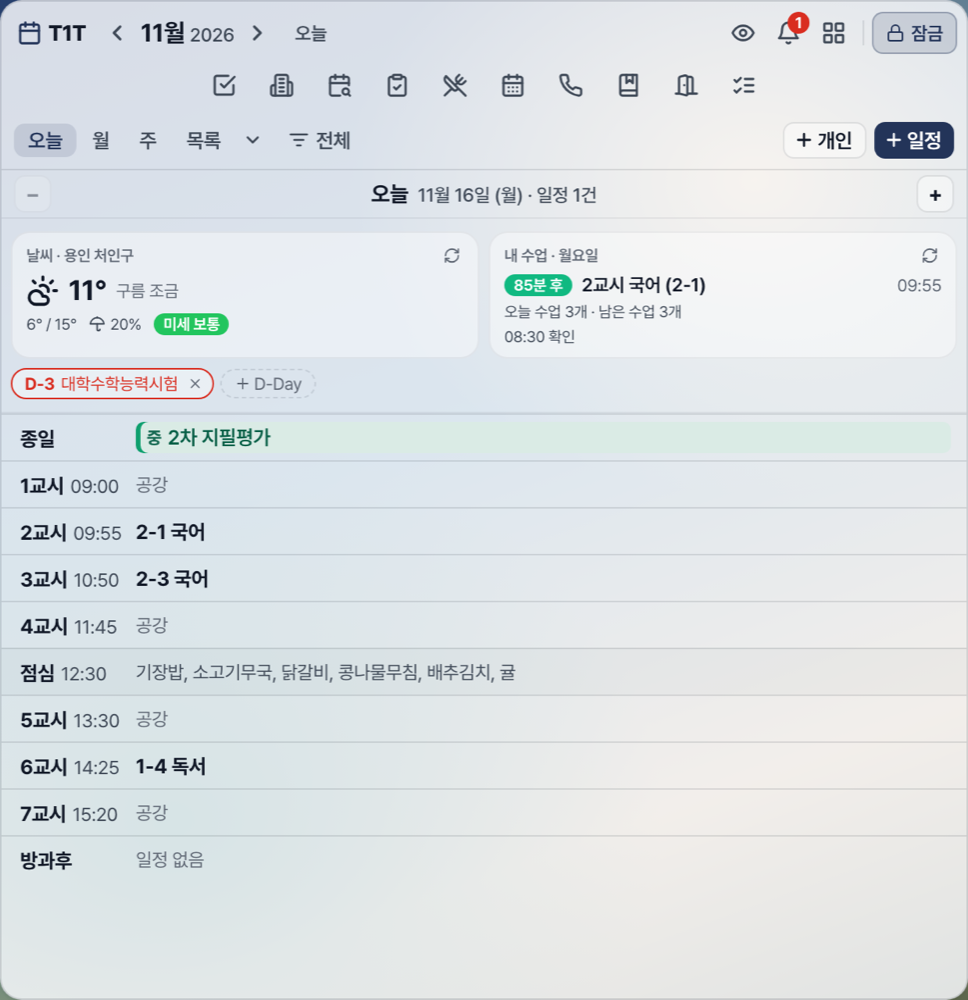
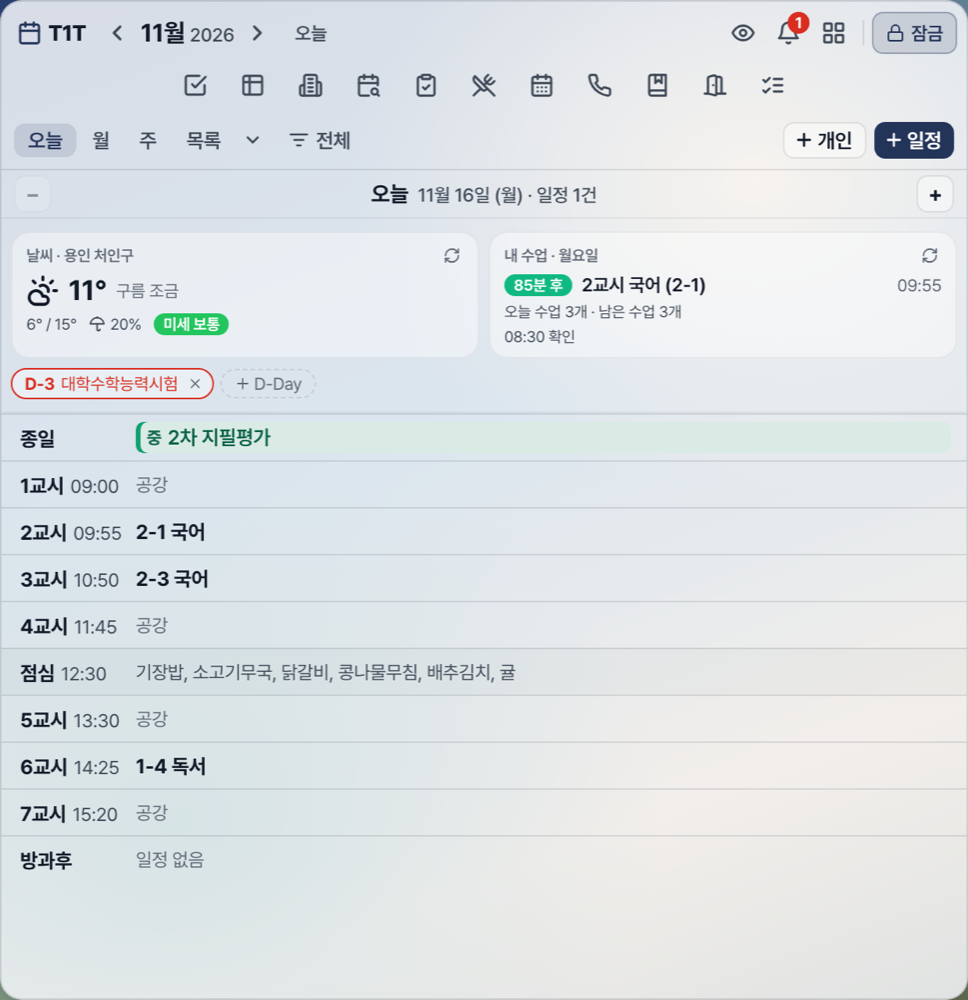
docs: 안내서와 README에 내 시간표 한 주 보기 반영
- 안내서 10장에 한 주 시간표 보기와 화면 사진, 주 보기 설명, 도구 목록에 내 시간표
- 한 장 안내의 도구 11가지
- 도구 줄에 아이콘이 하나 늘어 화면 사진 6장과 한 장 안내 번호 사진을 다시 찍음

Changed region(s): [[0.186, 0.062, 0.8058, 0.093]]

diff --git a/docs/T1T-교사_사용안내서.html b/docs/T1T-교사_사용안내서.html
@@ -333,9 +333,10 @@
 </table>
 
 <h3>제목 줄과 도구 모음</h3>
-<p>제목 줄에는 날짜 이동, 개인 일정 가리기(눈 아이콘), 알림(종 아이콘), 도구 모음(격자 아이콘)이 있습니다. 그 아래 가운데 아이콘 줄에 할 일, 회의실, 회의 찾기, 시험감독, 급식, 학사일정, 키폰, 도서관, 외출시스템, 외출상황이 늘 보입니다. 아이콘에 마우스를 가까이 대면 커지면서 위쪽에 이름이 나오고 색이 바뀝니다. 창이 넓으면 제목 줄에 검색과 설정도 함께 보입니다.</p>
+<p>제목 줄에는 날짜 이동, 개인 일정 가리기(눈 아이콘), 알림(종 아이콘), 도구 모음(격자 아이콘)이 있습니다. 그 아래 가운데 아이콘 줄에 할 일, 내 시간표, 회의실, 회의 찾기, 시험감독, 급식, 학사일정, 키폰, 도서관, 외출시스템, 외출상황이 늘 보입니다. 아이콘에 마우스를 가까이 대면 커지면서 위쪽에 이름이 나오고 색이 바뀝니다. 창이 넓으면 제목 줄에 검색과 설정도 함께 보입니다.</p>
 <div class="toolbar">
   <div class="ic-card"><div class="nm">할 일</div><div class="ds">내 작업 관리</div></div>
+  <div class="ic-card"><div class="nm">내 시간표</div><div class="ds">내 수업을 한 주 표로</div></div>
   <div class="ic-card"><div class="nm">회의실</div><div class="ds">회의실 예약</div></div>
   <div class="ic-card"><div class="nm">회의 찾기</div><div class="ds">모두 비는 교시</div></div>
   <div class="ic-card"><div class="nm">시험감독</div><div class="ds">부서·교과별 표 사진</div></div>
@@ -359,7 +360,7 @@
   <tr><th>보기</th><th>내용</th></tr>
   <tr><td><b>오늘</b></td><td>교시마다 내 수업과 일정, 점심 줄의 급식 메뉴. 날씨, D-Day, 다음 수업 카드가 함께 나옵니다.</td></tr>
   <tr><td><b>월</b></td><td>창이 넓으면 칸에 일정 제목과 오른쪽 오늘 칸이 나오고, 좁으면 색 막대와 아래 일정 목록이 나옵니다. 여러 날 일정은 이어진 막대로 보입니다.</td></tr>
-  <tr><td><b>주</b></td><td>교시를 줄로 한 주간 표입니다.</td></tr>
+  <tr><td><b>주</b></td><td>교시를 줄로 한 주간 표입니다. 앞뒤 주로 넘기면 그 주 나이스 시간표로 내 수업이 나옵니다.</td></tr>
   <tr><td><b>목록</b></td><td>다가오는 일정을 날짜 순서로 봅니다.</td></tr>
   <tr><td><b>더 보기</b></td><td>일 · 년 · 통계 보기가 있습니다.</td></tr>
 </table>
@@ -437,6 +438,19 @@
   <li>표에 이름이 없으면 <b>설정 &gt; 내 시간표</b>에 직접 넣습니다. 예: <code>국어 2-1 2-3</code></li>
   <li>나이스 시간표에 없는 이동수업은 요일과 교시를 함께 적습니다. 예: <code>문학 3-1 월4 수3</code></li>
 </ul>
+<div class="shots">
+  <div style="flex:1 1 0; min-width:0;">
+    <h3 style="margin-top:0;">한 주 시간표 보기</h3>
+    <ul>
+      <li>아이콘 줄의 <b>내 시간표</b>(또는 <b>설정 &gt; 내 시간표</b>의 <b>한 주 시간표 보기</b>)를 누르면 내 수업만 요일과 교시 표로 한 주씩 봅니다. 칸마다 학급과 과목이 나오고, 오늘은 색이 다릅니다.</li>
+      <li>화살표로 앞뒤 주를 넘깁니다. 넘긴 주는 그 주 나이스 시간표로 만들고, 학교가 나중에 나이스를 바꾸면 달라질 수 있습니다. 처음 주로 돌아오려면 날짜 옆 단추를 누릅니다.</li>
+      <li>기초 시간표로 연결된 선생님은 교체로 들어온 수업에 <b>교체</b>가 붙고, 그 주에 빠진 수업은 줄을 그어 까닭(보강, 단축, 그 반 행사 등)과 함께 보여 줍니다. 쉬는 날은 요일 아래에 이름이 나옵니다.</li>
+      <li>주말에는 다음 주 시간표를 먼저 보여 줍니다.</li>
+      <li>담당 학급 표에서 이름을 찾지 못하면 까닭과 <b>설정 &gt; 내 시간표 열기</b> 단추가 나옵니다.</li>
+    </ul>
+  </div>
+  <figure class="shot" style="flex:0 0 40%;"><img src="guide-img/my-timetable.png" alt="내 시간표 화면"><figcaption>내 수업을 한 주 표로 봅니다. 수 1교시는 교체로 들어온 수업, 화 4교시는 빠진 수업 (예시)</figcaption></figure>
+</div>
 <h3>확인과 갱신</h3>
 <ul>
   <li><b>설정 &gt; 내 시간표</b>에서 담당 과목, 학급, 이번 주 수업 수를 봅니다. 틀리면 <b>담당 학급 고치기</b>를 누릅니다. 지금 값이 채워져 나오니 틀린 곳만 고치면 됩니다.</li>

diff --git a/docs/T1T-교사_한장안내.html b/docs/T1T-교사_한장안내.html
@@ -72,7 +72,7 @@ footer { margin-top: 1.5mm; font-size: 7.2pt; color: #6b7280; display: flex; jus
   </div>
   <ol class="legend">
     <li><span class="num">1</span><span>달 이동. <b>오늘</b>을 누르면 돌아옵니다</span></li>
-    <li><span class="num">2</span><span>도구 10가지. 마우스를 대면 이름이 나옵니다</span></li>
+    <li><span class="num">2</span><span>도구 11가지. 마우스를 대면 이름이 나옵니다</span></li>
     <li><span class="num">3</span><span>눈: 개인 일정 가리기, 보이기</span></li>
     <li><span class="num">4</span><span>종: 내게 온 알림</span></li>
     <li><span class="num">5</span><span>격자: 검색, 붙여넣기, 인쇄, 설정</span></li>
@@ -101,9 +101,10 @@ footer { margin-top: 1.5mm; font-size: 7.2pt; color: #6b7280; display: flex; jus
       </ul></section>
   </div>
   <div>
-    <section><h2>도구 10가지</h2>
+    <section><h2>도구 11가지</h2>
       <div class="tools">
         <div class="tool"><svg xmlns="http://www.w3.org/2000/svg" width="13" height="13" viewBox="0 0 24 24" fill="none" stroke="currentColor" stroke-width="2" stroke-linecap="round" stroke-linejoin="round" class="lucide lucide-check-square "><path d="m9 11 3 3L22 4"></path><path d="M21 12v7a2 2 0 0 1-2 2H5a2 2 0 0 1-2-2V5a2 2 0 0 1 2-2h11"></path></svg><b>할 일</b><span>내 할 일과 마감</span></div>
+        <div class="tool"><svg xmlns="http://www.w3.org/2000/svg" width="13" height="13" viewBox="0 0 24 24" fill="none" stroke="currentColor" stroke-width="2" stroke-linecap="round" stroke-linejoin="round" class="lucide lucide-table-2 "><path d="M9 3H5a2 2 0 0 0-2 2v4m6-6h10a2 2 0 0 1 2 2v4M9 3v18m0 0h10a2 2 0 0 0 2-2V9M9 21H5a2 2 0 0 1-2-2V9m0 0h18"></path></svg><b>내 시간표</b><span>내 수업을 한 주 표로, 앞뒤 주 넘기기</span></div>
         <div class="tool"><svg xmlns="http://www.w3.org/2000/svg" width="13" height="13" viewBox="0 0 24 24" fill="none" stroke="currentColor" stroke-width="2" stroke-linecap="round" stroke-linejoin="round" class="lucide lucide-building2 "><path d="M6 22V4a2 2 0 0 1 2-2h8a2 2 0 0 1 2 2v18Z"></path><path d="M6 12H4a2 2 0 0 0-2 2v6a2 2 0 0 0 2 2h2"></path><path d="M18 9h2a2 2 0 0 1 2 2v9a2 2 0 0 1-2 2h-2"></path><path d="M10 6h4"></path><path d="M10 10h4"></path><path d="M10 14h4"></path><path d="M10 18h4"></path></svg><b>회의실</b><span>회의실 예약</span></div>
         <div class="tool"><svg xmlns="http://www.w3.org/2000/svg" width="13" height="13" viewBox="0 0 24 24" fill="none" stroke="currentColor" stroke-width="2" stroke-linecap="round" stroke-linejoin="round" class="lucide lucide-calendar-search "><path d="M21 12V6a2 2 0 0 0-2-2H5a2 2 0 0 0-2 2v14a2 2 0 0 0 2 2h7.5"></path><path d="M16 2v4"></path><path d="M8 2v4"></path><path d="M3 10h18"></path><circle cx="18" cy="18" r="3"></circle><path d="m22 22-1.5-1.5"></path></svg><b>회의 찾기</b><span>고른 선생님들의 공통 공강 추천</span></div>
         <div class="tool"><svg xmlns="http://www.w3.org/2000/svg" width="13" height="13" viewBox="0 0 24 24" fill="none" stroke="currentColor" stroke-width="2" stroke-linecap="round" stroke-linejoin="round" class="lucide lucide-clipboard-check "><rect width="8" height="4" x="8" y="2" rx="1" ry="1"></rect><path d="M16 4h2a2 2 0 0 1 2 2v14a2 2 0 0 1-2 2H6a2 2 0 0 1-2-2V6a2 2 0 0 1 2-2h2"></path><path d="m9 14 2 2 4-4"></path></svg><b>시험감독</b><span>부서·교과별 표 사진 보기, 올리기</span></div>

diff --git a/README.md b/README.md
@@ -16,7 +16,7 @@
 - 🎨 **테마 7종과 개인 옵션** — 강조색, 글자 크기, 크게 보기, 색 구분 돕기
 - ✅ **할 일** — 우선순위·마감일·인라인 수정
 - 🍱 **NEIS 급식·학사일정** 자동 표시
-- 📚 **내 시간표** — 나이스 시간표를 담당 학급 표와 맞춰 이름과 학교로 자동 연결
+- 📚 **내 시간표** — 나이스 시간표를 담당 학급 표와 맞춰 이름과 학교로 자동 연결, 내 수업을 한 주 표로 보고 앞뒤 주로 넘기기
 - 💬 **댓글·@멘션** 알림
 - 🔄 **Google Calendar 양방향 동기화**
 - 🔔 **다중 알림** (10분/30분/1시간/1일 전 동시)
